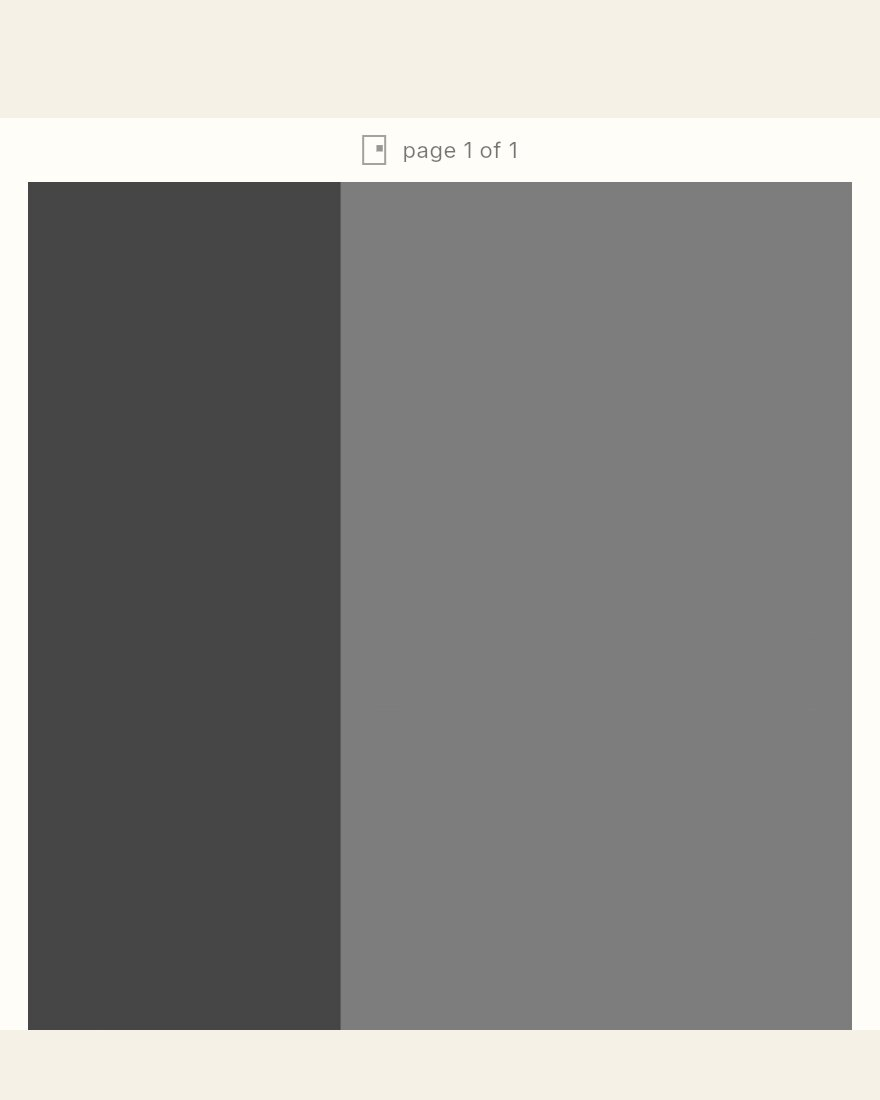
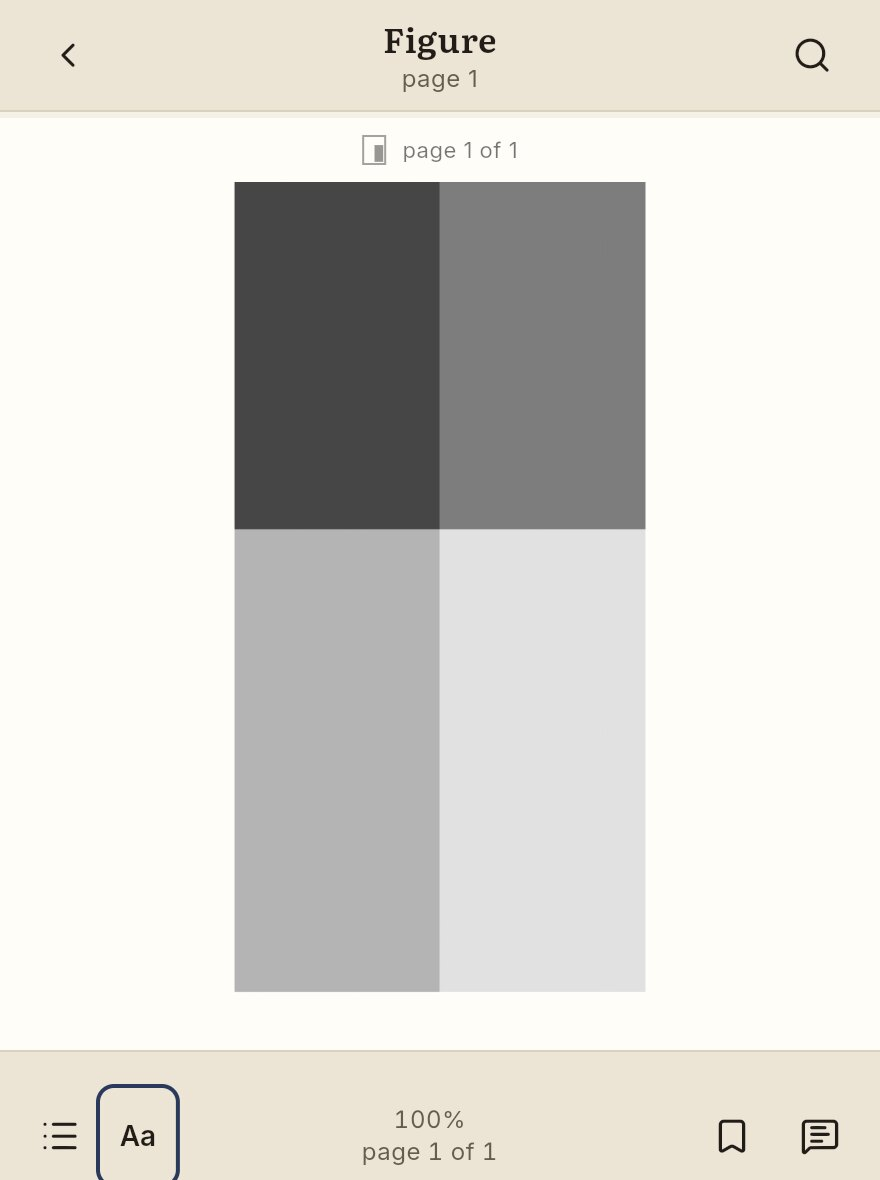
fix(reader): retain panned PDF detail place across resize

diff --git a/lib/reader/pdf_columns.dart b/lib/reader/pdf_columns.dart
@@ -196,6 +196,7 @@ extension on ReaderController {
               baseScale: piece.scale / screen.detailZoom,
             ),
       strip: pending != null ? pending.strip : screen?.strip,
+      retainDetailPlace: pending?.retainDetailPlace ?? piece != null,
     );
   }
 
@@ -233,6 +234,7 @@ extension on ReaderController {
     bool previous = false,
     ({int page, int region, double zoom, double baseScale})? detail,
     PdfStripScreen? strip,
+    bool retainDetailPlace = false,
     int? offset,
     int? length,
     double? x,
@@ -270,6 +272,7 @@ extension on ReaderController {
       locate: locate || _model.pdfColumns == null,
       detail: detail,
       strip: strip,
+      retainDetailPlace: retainDetailPlace,
     );
     _columnsIntent = intent;
     // A whole-page render started before a fit switch cannot overwrite a
@@ -649,6 +652,9 @@ extension on ReaderController {
       message.image.dispose();
       return;
     }
+    final retainDetailPlace =
+        (_columnsIntent?.retainDetailPlace ?? false) &&
+        message.screen.strip != null;
     _columnsIntent = null;
     final old = _model.pageImage;
     _columnsPages
@@ -671,9 +677,29 @@ extension on ReaderController {
               e.rect.bottom > first.top,
         )
         .firstOrNull;
-    final offset = endpoint == null
+    final offset = retainDetailPlace
+        ? _model.readingLocation.offset
+        : endpoint == null
         ? null
         : message.selection.location(endpoint.offset.toInt()).offset;
+    // A passive detail render keeps the visible page point, not the region
+    // origin. Initial detail entry instead starts at its actual visible center.
+    final y = retainDetailPlace ? _model.pdfY! : first.source.top;
+    final x = retainDetailPlace
+        ? _model.pdfX!
+        : message.screen.strip == null
+        ? (first.source.left + first.source.right) / 2
+        : first
+              .toPage(
+                first.left +
+                    math.min(
+                          first.width,
+                          message.layout.width - 2 * pdfStripSideInset,
+                        ) /
+                        2,
+                first.top,
+              )
+              .x;
     final target = message.targetOffset == null
         ? null
         : message.targetOffset! + (message.selection.shifts[first.page] ?? 0);
@@ -683,8 +709,8 @@ extension on ReaderController {
       _model.copyWith(
         pdfColumns: message.screen,
         pdfColumnSelection: message.selection,
-        pdfY: first.source.top,
-        pdfX: (first.source.left + first.source.right) / 2,
+        pdfY: y,
+        pdfX: x,
         pageImage: message.image,
         pdfSpread: null,
         readingPage: null,
@@ -723,8 +749,8 @@ extension on ReaderController {
           unit: BigInt.from(first.page),
           offset: offset == null ? null : BigInt.from(offset),
           zoom: message.layout.scale,
-          pdfY: first.source.top,
-          pdfX: _model.pdfX,
+          pdfY: y,
+          pdfX: x,
           progress: _bookProgress(_model),
         ),
       );

diff --git a/lib/reader/view_selection.dart b/lib/reader/view_selection.dart
@@ -686,6 +686,7 @@ class _ReaderPageGesturesState extends State<_ReaderPageGestures> {
   }
 
   void _pdfScrolled() {
+    if (_revealing) return;
     final screen = widget.columnsScreen;
     if (screen?.strip != null &&
         _horizontal.hasClients &&
@@ -704,7 +705,7 @@ class _ReaderPageGesturesState extends State<_ReaderPageGestures> {
       return;
     }
     final scale = widget.pdfScrollScale;
-    if (_revealing || scale == null || !_vertical.hasClients) return;
+    if (scale == null || !_vertical.hasClients) return;
     widget.dispatch(
       ReaderPdfViewportChanged(
         widget.model.generation,
@@ -715,23 +716,49 @@ class _ReaderPageGesturesState extends State<_ReaderPageGestures> {
   }
 
   void _revealPdfPlace() {
-    if (widget.pdfScrollScale == null || widget.model.relayoutBusy) return;
+    final screen = widget.columnsScreen;
+    final detail = screen?.strip != null;
+    if (!detail && widget.pdfScrollScale == null || widget.model.relayoutBusy) {
+      return;
+    }
+    final generation = widget.model.generation;
     final revision = widget.model.locationRequestRevision;
+    // Do not durably report origin or a half-restored two-axis viewport.
+    _revealing = true;
     WidgetsBinding.instance.addPostFrameCallback((_) {
       if (!mounted ||
+          widget.model.generation != generation ||
           widget.model.locationRequestRevision != revision ||
+          widget.model.relayoutBusy ||
           !_vertical.hasClients ||
-          widget.pdfScrollScale == null) {
+          (detail
+              ? !identical(screen, widget.columnsScreen) ||
+                    !_horizontal.hasClients
+              : widget.pdfScrollScale == null)) {
         return;
       }
-      _revealing = true;
-      _vertical.jumpTo(
-        ((widget.model.pdfY ?? 0) * widget.pdfScrollScale!).clamp(
-          0.0,
-          _vertical.position.maxScrollExtent,
-        ),
-      );
+      if (detail) {
+        final piece = screen!.pieces.single;
+        final point = piece.fromPage(widget.model.pdfX!, widget.model.pdfY!);
+        _horizontal.jumpTo(
+          (point.x - _horizontal.position.viewportDimension / 2).clamp(
+            0.0,
+            _horizontal.position.maxScrollExtent,
+          ),
+        );
+        _vertical.jumpTo(
+          point.y.clamp(0.0, _vertical.position.maxScrollExtent),
+        );
+      } else {
+        _vertical.jumpTo(
+          ((widget.model.pdfY ?? 0) * widget.pdfScrollScale!).clamp(
+            0.0,
+            _vertical.position.maxScrollExtent,
+          ),
+        );
+      }
       _revealing = false;
+      if (detail) _pdfScrolled();
     });
   }
 

diff --git a/integration_test/pdf_columns_test.dart b/integration_test/pdf_columns_test.dart
@@ -226,7 +226,7 @@ void main() {
         ? 'DPR 3 capped scan'
         : 'textless right-column figure';
     testWidgets('a $subject keeps its place after '
-        '${scenario.detail ? 'both-axis detail pan and ' : ''}'
+        '${scenario.detail ? 'both-axis detail pan, resize and ' : ''}'
         '${reopen ? 'reopen' : 'a fit round-trip'}', (tester) async {
       final density = scenario.scan ? 3.0 : 2.0;
       tester.view.physicalSize = Size(440 * density, 550 * density);
@@ -405,6 +405,21 @@ void main() {
         expect(saved.pdfX, closeTo(expectedX, .01));
         expect(saved.offset, isNull);
         await capture('$fixture-detail-panned-${reopen ? 'reopen' : 'fit'}');
+        final beforeResize = painting(tester)!.columns;
+        tester.view.physicalSize = Size(440 * density, 590 * density);
+        await until(tester, () => painting(tester)!.columns != beforeResize);
+        final resized = painting(tester)!.columns!.pieces.single;
+        final moved = tester.getTopLeft(raster);
+        expect(
+          resized.source.top + (origin.dy - moved.dy) / resized.scale,
+          closeTo(expectedY, .01),
+        );
+        expect(
+          resized.source.left +
+              (tester.getCenter(area).dx - moved.dx) / resized.scale,
+          closeTo(expectedX, .01),
+        );
+        await capture('$fixture-detail-resized-${reopen ? 'reopen' : 'fit'}');
       }
       if (reopen) {
         await tester.pumpWidget(const SizedBox());

diff --git a/lib/reader/controller.dart b/lib/reader/controller.dart
@@ -183,6 +183,7 @@ final class ReaderController implements Listenable {
     bool locate,
     ({int page, int region, double zoom, double baseScale})? detail,
     PdfStripScreen? strip,
+    bool retainDetailPlace,
   })?
   _columnsIntent;
   int _referenceRevision = 0;

diff --git a/docs/pdf-columns.md b/docs/pdf-columns.md
@@ -220,6 +220,10 @@ guarded by its adopted screen identity; textless viewports keep x+y without
 inventing a text offset. Pending detail requests survive viewport refresh.
 DPR 3 scan regressions repeat both restoration paths after a capped 5× pinch;
 the durable point uses the admitted scale, not the requested gesture ratio.
+Those cases also resize the passive detail viewport before switching fits or
+reopening. Rerenders retain the visible original-page point; both scroll axes
+restore after layout before reporting a new viewport, never saving an interim
+region origin or a half-restored pan.
 The screenshots and real moving-pointer recordings are captured on Linux,
 not a phone runtime.
 
